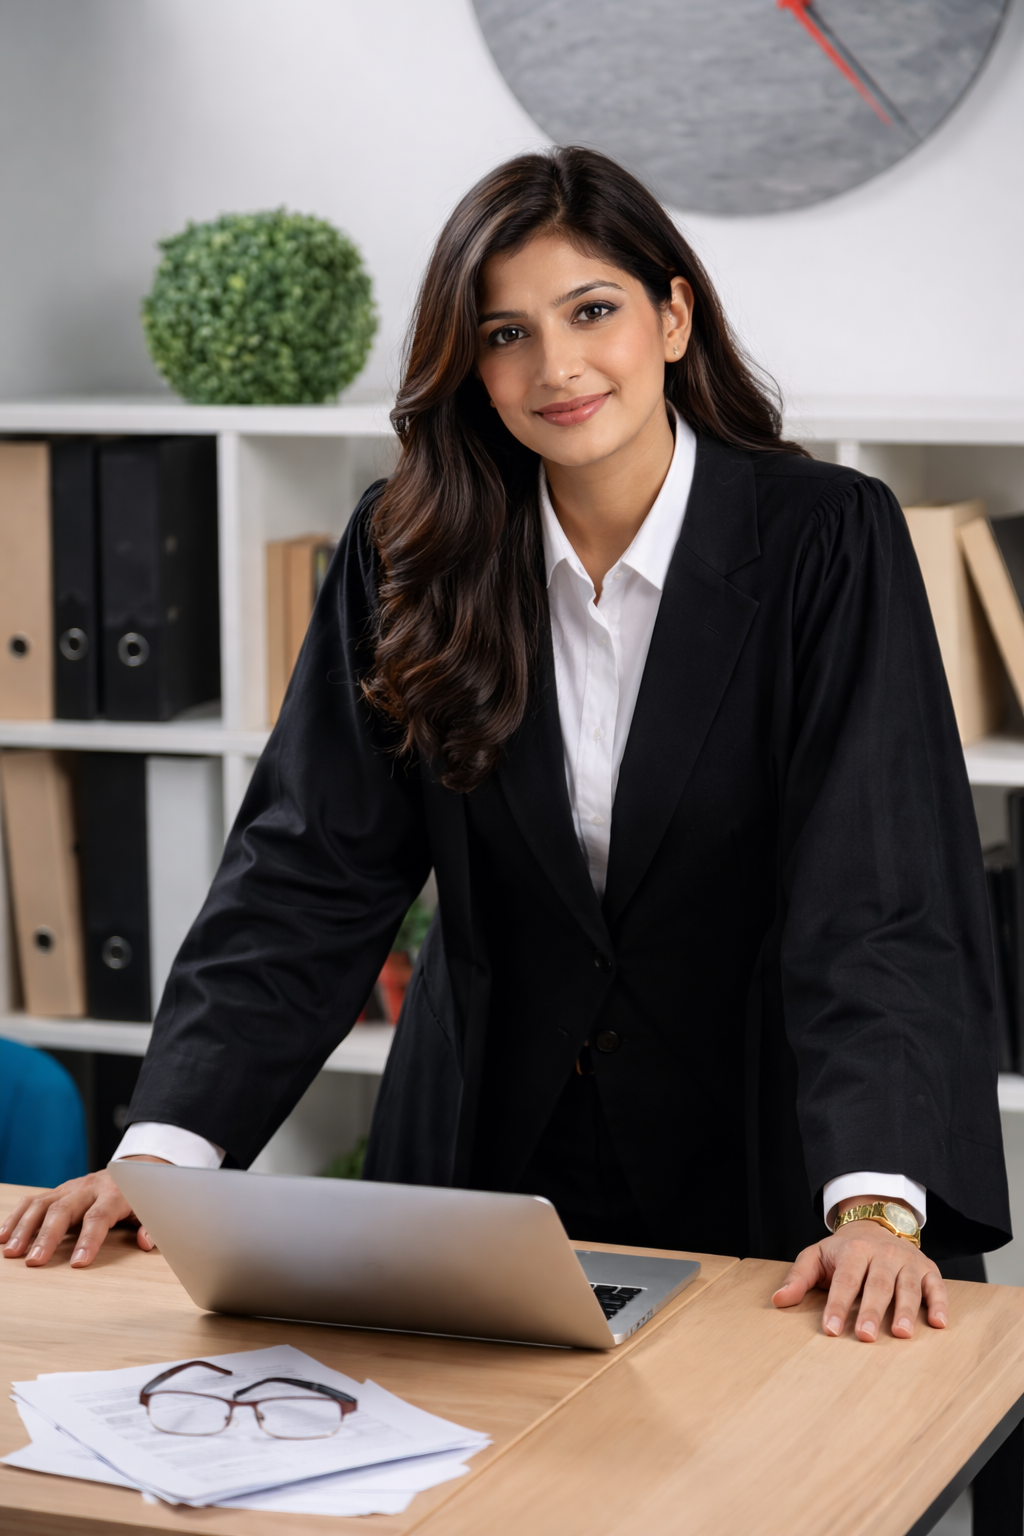
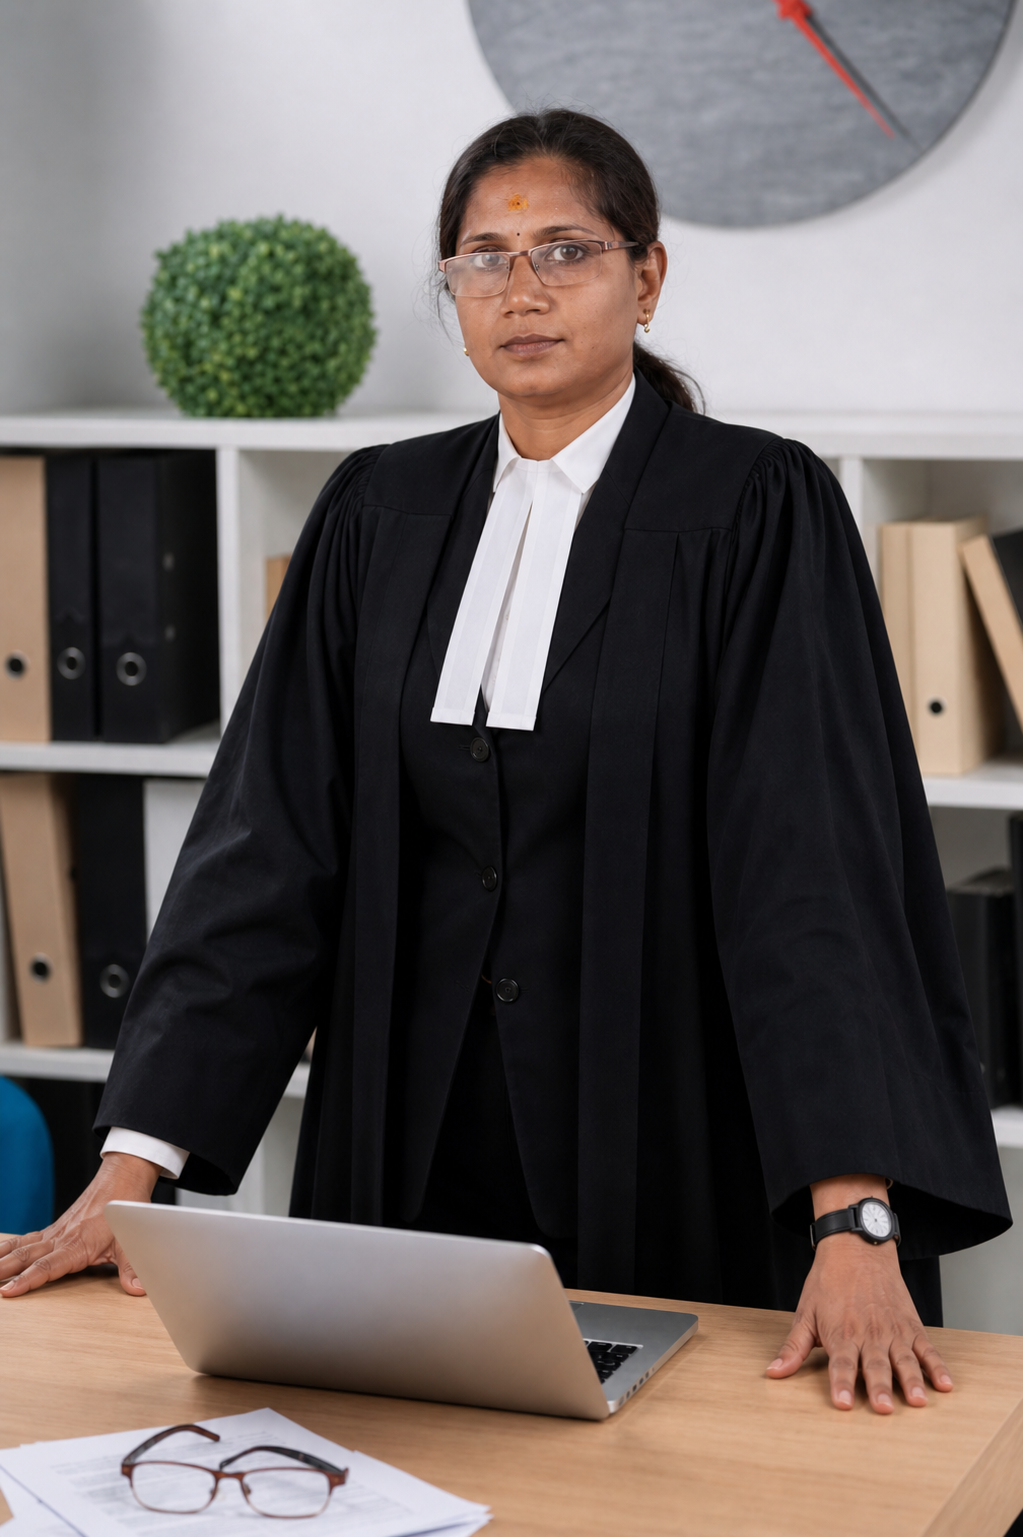
Add SEO: sitemap, robots.txt, meta tags, Open Graph, Schema.org structured data

diff --git a/sandhyarkurup.html b/sandhyarkurup.html
@@ -1,6 +1,64 @@
 <!DOCTYPE html>
-<!-- saved from url=(0047)##testimonial -->
-<html lang="en" class="lenis"><head><meta http-equiv="Content-Type" content="text/html; charset=UTF-8"><meta name="viewport" content="width=device-width, initial-scale=1.0"><title>Sandhya R Kurup - Attorney</title><link rel="stylesheet" href="./css/swiper-bundle.min.css" as="style" onload="this.rel='stylesheet'"><link rel="stylesheet" href="./css/remixicon.css" as="style" onload="this.rel='stylesheet'"><link rel="stylesheet" href="./css/style.css"></head> <body> <header id="header" class="header"> <div class="header__container container"> <nav class="header__nav" aria-label="Main navigation"> <a href="#" class="header__logo" aria-label="Home"><img src="./assets/images/logo.png" alt="Sandhya R Kurup Logo" class="header__logo-img"><span class="header__logo-name">Sandhya R Kurup</span></a></a> <ul class="header__menu" id="main-navigation"> <li class="header__menu-item"> <a href="#about" class="header__menu-link">About</a> </li> <li class="header__menu-item"> <a href="#service" class="header__menu-link">Service</a> </li> <li class="header__menu-item"> <a href="#testimonial" class="header__menu-link">Testimonial</a> </li> <li class="header__menu-item"> <a href="#contact" class="header__menu-link">Contact</a> </li> </ul> <button class="header__menu-toggler" aria-label="Toggle menu" aria-expanded="false" aria-controls="main-navigation"> <span class="line"></span> <span class="line"></span> <span class="line"></span> </button> </nav> </div> </header> <main>  <div id="image-preview" class="image-preview" data-astro-cid-j7pv25f6="" style="translate: none; rotate: none; scale: none; transform: translate(-10%, -10%) scale(0, 0);"> <img src="./assets/images/personal-injury.B_F3VttC_WA4Sh.webp" alt="" data-astro-cid-j7pv25f6=""> </div> <section id="hero" class="hero" data-astro-cid-j7pv25f6=""> <div class="hero__bg bg-1" data-astro-cid-j7pv25f6=""></div> <div class="hero__bg bg-2" data-astro-cid-j7pv25f6=""></div> <div class="hero__container container" data-astro-cid-j7pv25f6=""> <div class="hero__content" data-astro-cid-j7pv25f6=""> <p class="section-label" aria-label="Section label: Justice, Expertise, Results" data-astro-cid-j7pv25f6=""> <span class="section-label__icon" aria-hidden="true" data-astro-cid-j7pv25f6=""> <i class="ri-auction-fill" data-astro-cid-j7pv25f6=""></i> </span> <span class="section-label__text" data-astro-cid-j7pv25f6="">Justice, Expertise, Results</span> </p> <h1 class="hero__heading heading" data-astro-cid-j7pv25f6="">
+<html lang="en" class="lenis"><head><meta http-equiv="Content-Type" content="text/html; charset=UTF-8"><meta name="viewport" content="width=device-width, initial-scale=1.0">
+
+<!-- Primary SEO -->
+<title>Sandhya R Kurup - Expert Attorney | Criminal Defense, Family Law, Personal Injury Kerala</title>
+<meta name="description" content="Sandhya R Kurup is an experienced attorney in Kerala with 20+ years of expertise in criminal defense, family law, personal injury, business law, real estate, and estate planning. Free consultation available. Call +91 9605210198.">
+<meta name="keywords" content="Sandhya R Kurup, attorney Kerala, lawyer Kerala, criminal defense lawyer, family law attorney, personal injury lawyer, business law Kerala, real estate lawyer Kerala, estate planning, best lawyer Kerala, advocate Kerala">
+<meta name="author" content="Sandhya R Kurup">
+<meta name="robots" content="index, follow">
+<link rel="canonical" href="https://abhisheks200607.github.io/sandhyarkurup/sandhyarkurup.html">
+
+<!-- Open Graph (Facebook, WhatsApp, LinkedIn) -->
+<meta property="og:type" content="website">
+<meta property="og:title" content="Sandhya R Kurup - Expert Attorney Kerala">
+<meta property="og:description" content="20+ years of legal experience. Expert in criminal defense, family law, personal injury & more. Free consultation. Call +91 9605210198.">
+<meta property="og:url" content="https://abhisheks200607.github.io/sandhyarkurup/sandhyarkurup.html">
+<meta property="og:image" content="https://abhisheks200607.github.io/sandhyarkurup/assets/images/sandhya r kurup.png">
+<meta property="og:site_name" content="Sandhya R Kurup - Attorney">
+<meta property="og:locale" content="en_IN">
+
+<!-- Twitter Card -->
+<meta name="twitter:card" content="summary_large_image">
+<meta name="twitter:title" content="Sandhya R Kurup - Expert Attorney Kerala">
+<meta name="twitter:description" content="20+ years of legal experience. Expert in criminal defense, family law, personal injury & more. Free consultation.">
+<meta name="twitter:image" content="https://abhisheks200607.github.io/sandhyarkurup/assets/images/sandhya r kurup.png">
+
+<!-- Schema.org Structured Data -->
+<script type="application/ld+json">
+{
+  "@context": "https://schema.org",
+  "@type": "Attorney",
+  "name": "Sandhya R Kurup",
+  "description": "Experienced attorney with 20+ years of expertise in criminal defense, family law, personal injury, business law, real estate, and estate planning.",
+  "url": "https://abhisheks200607.github.io/sandhyarkurup/sandhyarkurup.html",
+  "telephone": "+919605210198",
+  "image": "https://abhisheks200607.github.io/sandhyarkurup/assets/images/sandhya r kurup.png",
+  "address": {
+    "@type": "PostalAddress",
+    "addressRegion": "Kerala",
+    "addressCountry": "IN"
+  },
+  "areaServed": "Kerala, India",
+  "knowsAbout": ["Criminal Defense", "Family Law", "Personal Injury", "Business Law", "Real Estate Law", "Estate Planning"],
+  "hasOfferCatalog": {
+    "@type": "OfferCatalog",
+    "name": "Legal Services",
+    "itemListElement": [
+      {"@type": "Offer", "itemOffered": {"@type": "Service", "name": "Criminal Defense"}},
+      {"@type": "Offer", "itemOffered": {"@type": "Service", "name": "Family Law"}},
+      {"@type": "Offer", "itemOffered": {"@type": "Service", "name": "Personal Injury"}},
+      {"@type": "Offer", "itemOffered": {"@type": "Service", "name": "Business & Corporate Law"}},
+      {"@type": "Offer", "itemOffered": {"@type": "Service", "name": "Real Estate Law"}},
+      {"@type": "Offer", "itemOffered": {"@type": "Service", "name": "Wills & Estate Planning"}}
+    ]
+  },
+  "sameAs": []
+}
+</script>
+
+<!-- Sitemap -->
+<link rel="sitemap" type="application/xml" href="./sitemap.xml"><link rel="stylesheet" href="./css/swiper-bundle.min.css" as="style" onload="this.rel='stylesheet'"><link rel="stylesheet" href="./css/remixicon.css" as="style" onload="this.rel='stylesheet'"><link rel="stylesheet" href="./css/style.css"></head> <body> <header id="header" class="header"> <div class="header__container container"> <nav class="header__nav" aria-label="Main navigation"> <a href="#" class="header__logo" aria-label="Home"><img src="./assets/images/logo.png" alt="Sandhya R Kurup Logo" class="header__logo-img"><span class="header__logo-name">Sandhya R Kurup</span></a></a> <ul class="header__menu" id="main-navigation"> <li class="header__menu-item"> <a href="#about" class="header__menu-link">About</a> </li> <li class="header__menu-item"> <a href="#service" class="header__menu-link">Service</a> </li> <li class="header__menu-item"> <a href="#testimonial" class="header__menu-link">Testimonial</a> </li> <li class="header__menu-item"> <a href="#contact" class="header__menu-link">Contact</a> </li> </ul> <button class="header__menu-toggler" aria-label="Toggle menu" aria-expanded="false" aria-controls="main-navigation"> <span class="line"></span> <span class="line"></span> <span class="line"></span> </button> </nav> </div> </header> <main>  <div id="image-preview" class="image-preview" data-astro-cid-j7pv25f6="" style="translate: none; rotate: none; scale: none; transform: translate(-10%, -10%) scale(0, 0);"> <img src="./assets/images/personal-injury.B_F3VttC_WA4Sh.webp" alt="" data-astro-cid-j7pv25f6=""> </div> <section id="hero" class="hero" data-astro-cid-j7pv25f6=""> <div class="hero__bg bg-1" data-astro-cid-j7pv25f6=""></div> <div class="hero__bg bg-2" data-astro-cid-j7pv25f6=""></div> <div class="hero__container container" data-astro-cid-j7pv25f6=""> <div class="hero__content" data-astro-cid-j7pv25f6=""> <p class="section-label" aria-label="Section label: Justice, Expertise, Results" data-astro-cid-j7pv25f6=""> <span class="section-label__icon" aria-hidden="true" data-astro-cid-j7pv25f6=""> <i class="ri-auction-fill" data-astro-cid-j7pv25f6=""></i> </span> <span class="section-label__text" data-astro-cid-j7pv25f6="">Justice, Expertise, Results</span> </p> <h1 class="hero__heading heading" data-astro-cid-j7pv25f6="">
 Your trusted partner for legal solutions
 </h1> <p class="hero__description" data-astro-cid-j7pv25f6="">
 Expert legal guidance for your personal and business needs.
